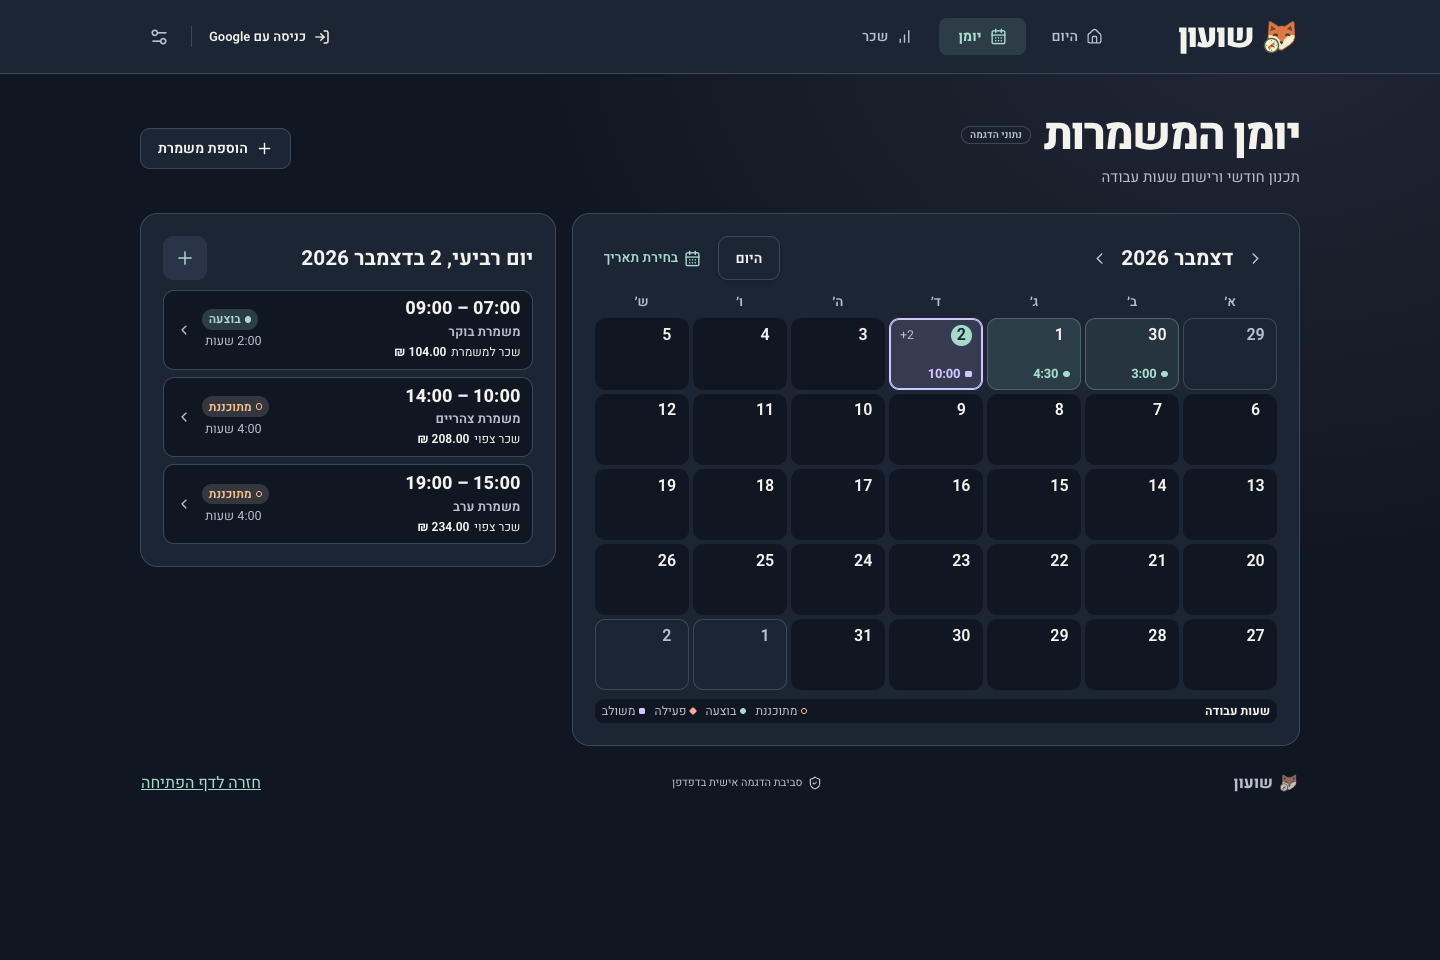
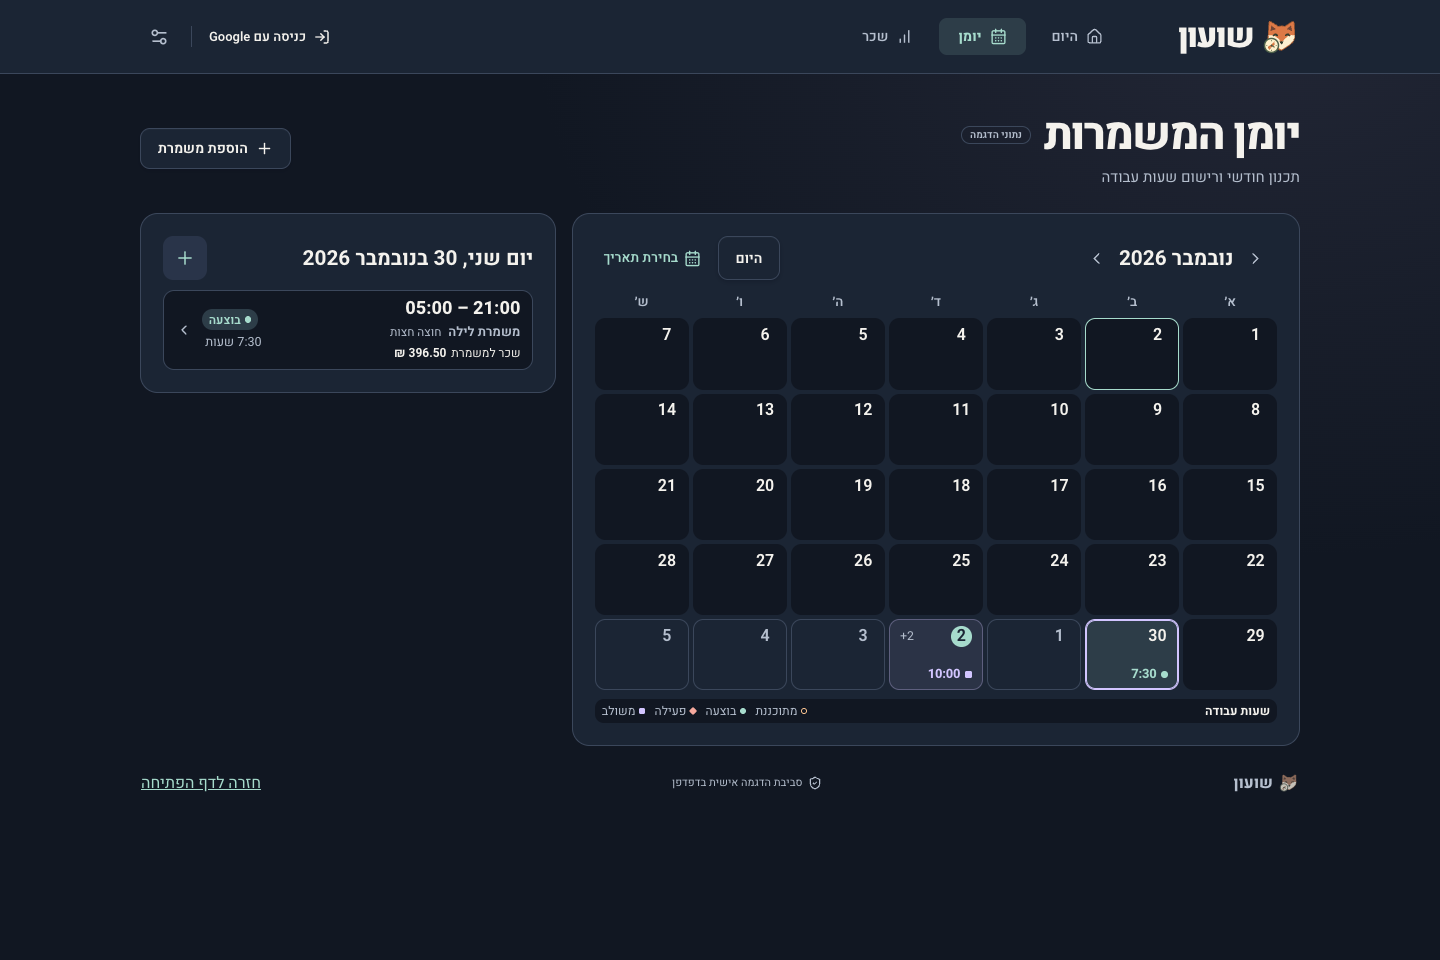
Group calendar shift hours by start day

diff --git a/src/components/Calendar.tsx b/src/components/Calendar.tsx
@@ -1,7 +1,7 @@
 import { useEffect, useId, useLayoutEffect, useMemo, useRef, useState, type KeyboardEvent } from 'react'
 import { CalendarDays, ChevronLeft, ChevronRight, Plus } from 'lucide-react'
 import type { WorkShift } from '../data/model'
-import { formatWorkDuration, shiftWorkMillis, workMillisOnDay } from '../data/shift-hours'
+import { formatWorkDuration, shiftWorkMillis } from '../data/shift-hours'
 import { addDays, addMonths, dateMs, localDate, localTime, monthDays } from '../domain/time'
 import type { ShiftPay } from '../domain/gross'
 import { ShiftGross } from './ShiftGross'
@@ -143,18 +143,18 @@ export function Calendar({
   const monthHeadingId = useId()
   const agendaHeadingId = useId()
   const pendingFocus = useRef<{ date: string; preventScroll: boolean } | null>(null)
-  const shiftDays = useMemo(
-    () => shifts
-      .map((shift) => ({
-        shift,
-        start: localDate(shift.start),
-        end: shift.status === 'active' ? today : localDate(Date.parse(shift.end) - 1),
-      }))
-      .sort((a, b) => Date.parse(a.shift.start) - Date.parse(b.shift.start)),
-    [shifts, today],
-  )
-  const shiftsOn = (day: string) => shiftDays.filter(({ start, end }) => start <= day && end >= day)
-  const dayShifts = shiftsOn(date)
+  const shiftsByStartDay = useMemo(() => {
+    const byDay = new Map<string, WorkShift[]>()
+    const sorted = [...shifts].sort((a, b) => Date.parse(a.start) - Date.parse(b.start))
+    for (const shift of sorted) {
+      const day = localDate(shift.start)
+      const entries = byDay.get(day) ?? []
+      entries.push(shift)
+      byDay.set(day, entries)
+    }
+    return byDay
+  }, [shifts])
+  const dayShifts = shiftsByStartDay.get(date) ?? []
   const previousMonth = addMonths(date, -1)
   const nextMonth = addMonths(date, 1)
 
@@ -244,12 +244,12 @@ export function Calendar({
                 <div className="cal-row" key={days[index * 7] ?? index} role="row">
                   {days.slice(index * 7, index * 7 + 7).map((day, column) => {
                     if (!day) return <div key={column} role="gridcell" />
-                    const entries = shiftsOn(day)
+                    const entries = shiftsByStartDay.get(day) ?? []
                     const occupied = entries.length > 0
-                    const statuses = statusKeys.filter((status) => entries.some(({ shift }) => shift.status === status))
+                    const statuses = statusKeys.filter((status) => entries.some((shift) => shift.status === status))
                     const dayStatus = statuses.length > 1 ? 'mixed' : statuses[0]
                     const duration = occupied
-                      ? formatWorkDuration(entries.reduce((sum, { shift }) => sum + workMillisOnDay(shift, day, now), 0))
+                      ? formatWorkDuration(entries.reduce((sum, shift) => sum + shiftWorkMillis(shift, now), 0))
                       : ''
                     const count = entries.length === 1 ? 'משמרת אחת' : entries.length + ' משמרות'
                     const summary = occupied
@@ -325,8 +325,9 @@ export function Calendar({
               </div>
             ) : (
               <ul className="cal-list">
-                {dayShifts.map(({ shift, start }) => {
-                  const crossDay = shift.status !== 'active' && start !== localDate(shift.end)
+                {dayShifts.map((shift) => {
+                  const end = shift.status === 'active' ? now : Date.parse(shift.end)
+                  const crossDay = date !== localDate(end)
                   return (
                     <li key={shift.id}>
                       <button

diff --git a/README.md b/README.md
@@ -17,7 +17,7 @@
 | מסך | מה עושים בו |
 | --- | --- |
 | **היום שלי** | מתחילים ומסיימים משמרת, רושמים הפסקות ורואים גרף שעות שבועי. לכל משמרת מתוכננת מוצג השכר הצפוי. לצד השעון מופיעים הברוטו של החודש הקודם, אומדן הנטו שנצבר החודש והתחזית לסופו. |
-| **יומן המשמרות** | בודקים מה עבדתם ומה מתוכנן, מזינים שעות בדיעבד ומחילים אותן שעות על כמה ימים. בכל שורה מופיע השכר למשמרת כולה או השכר הצפוי למשמרת מתוכננת. במשמרת לילה שעות העבודה מתחלקות בין הימים ביומן, והשכר המלא מוצג בשניהם. |
+| **יומן המשמרות** | בודקים מה עבדתם ומה מתוכנן, מזינים שעות בדיעבד ומחילים אותן שעות על כמה ימים. בכל שורה מופיע השכר למשמרת כולה או השכר הצפוי למשמרת מתוכננת. משמרת שחוצה חצות מופיעה ביומן ביום שבו התחילה, עם כל שעות העבודה והשכר שלה. |
 | **השכר שלי** | בוחרים חודש ומשווים בין מה שנצבר בפועל לבין התחזית הכוללת משמרות מתוכננות. הדוח מפרט ברוטו, נטו משוער, ניכויים ושעות נוספות. |
 | **הגדרות** | מעדכנים את שאלון השכר, תעריפים לפי תאריך, ימי מנוחה וחגים ותבניות משמרת. לחיצה על השעות של תבנית פותחת עריכה של שעת ההתחלה והסיום. אפשר לבחור מראה בהיר, כהה, מרווה או התאמה למכשיר. |
 
